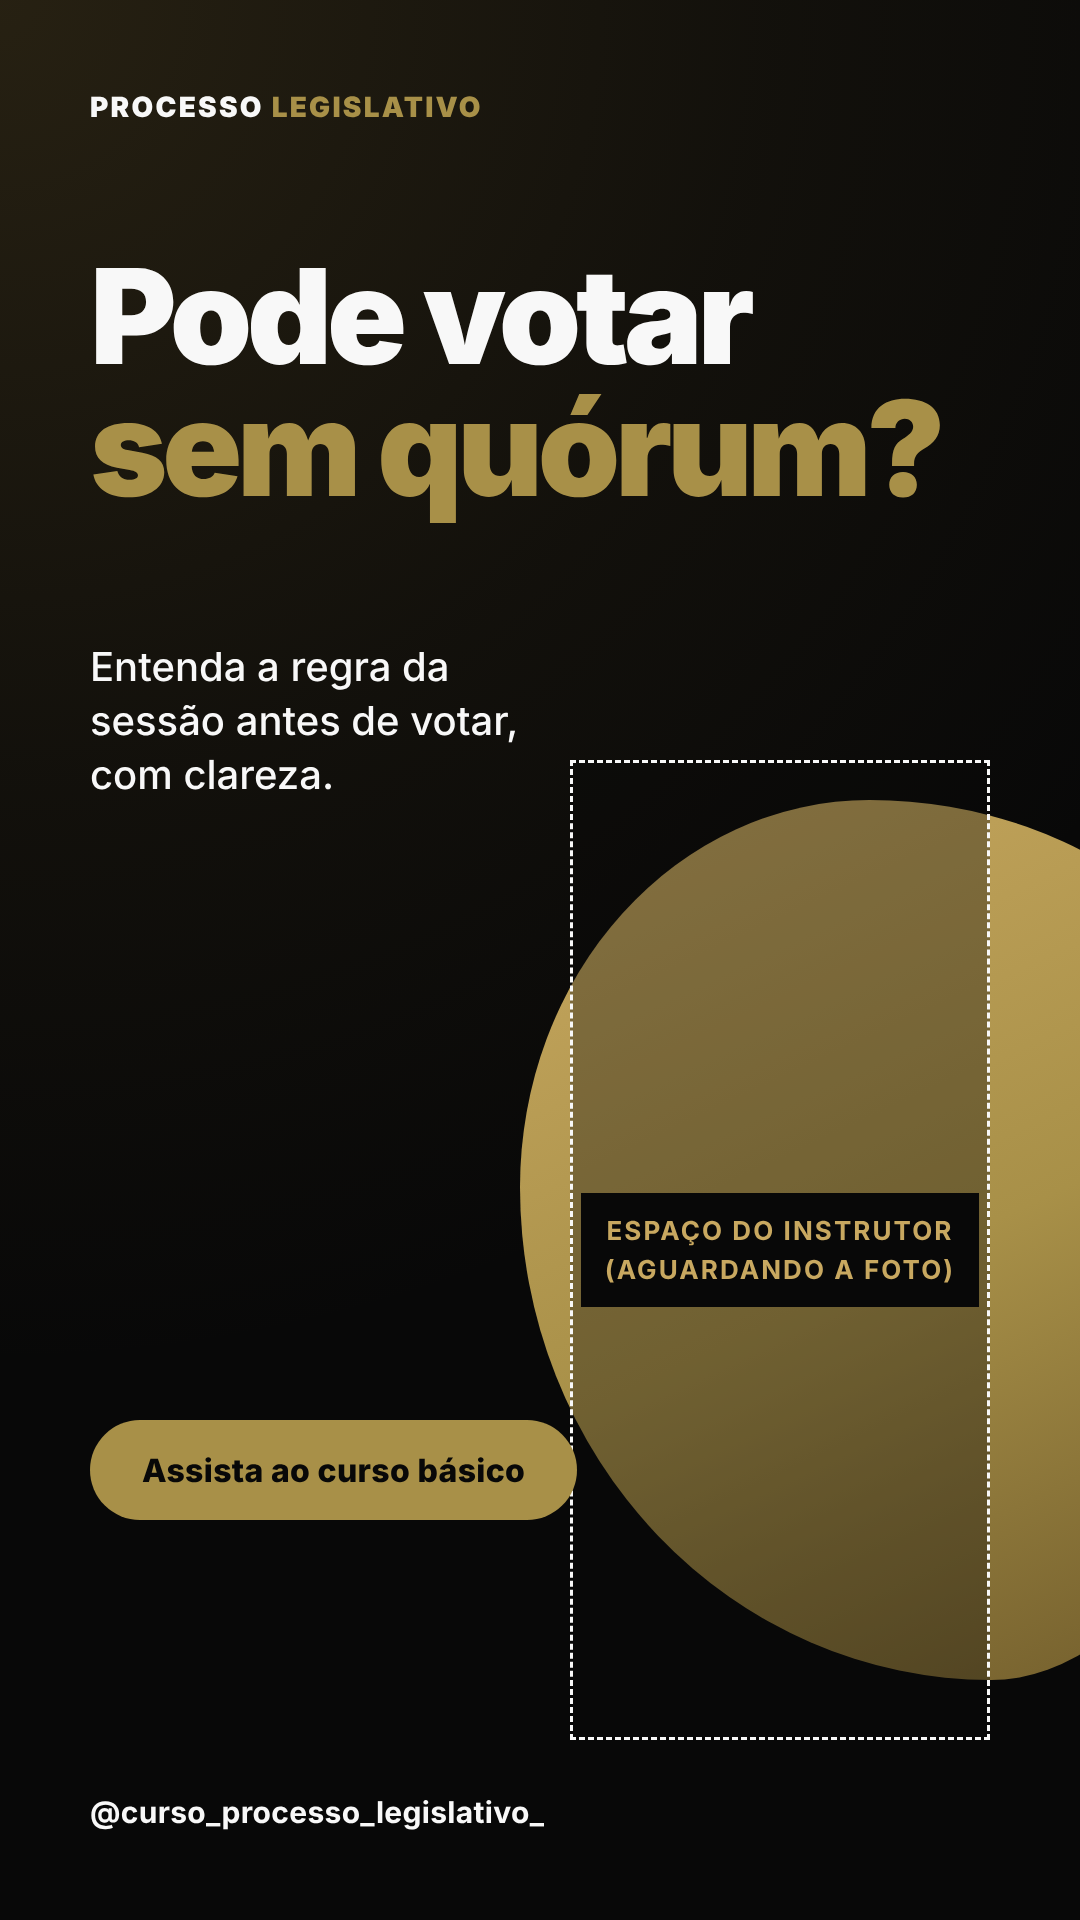
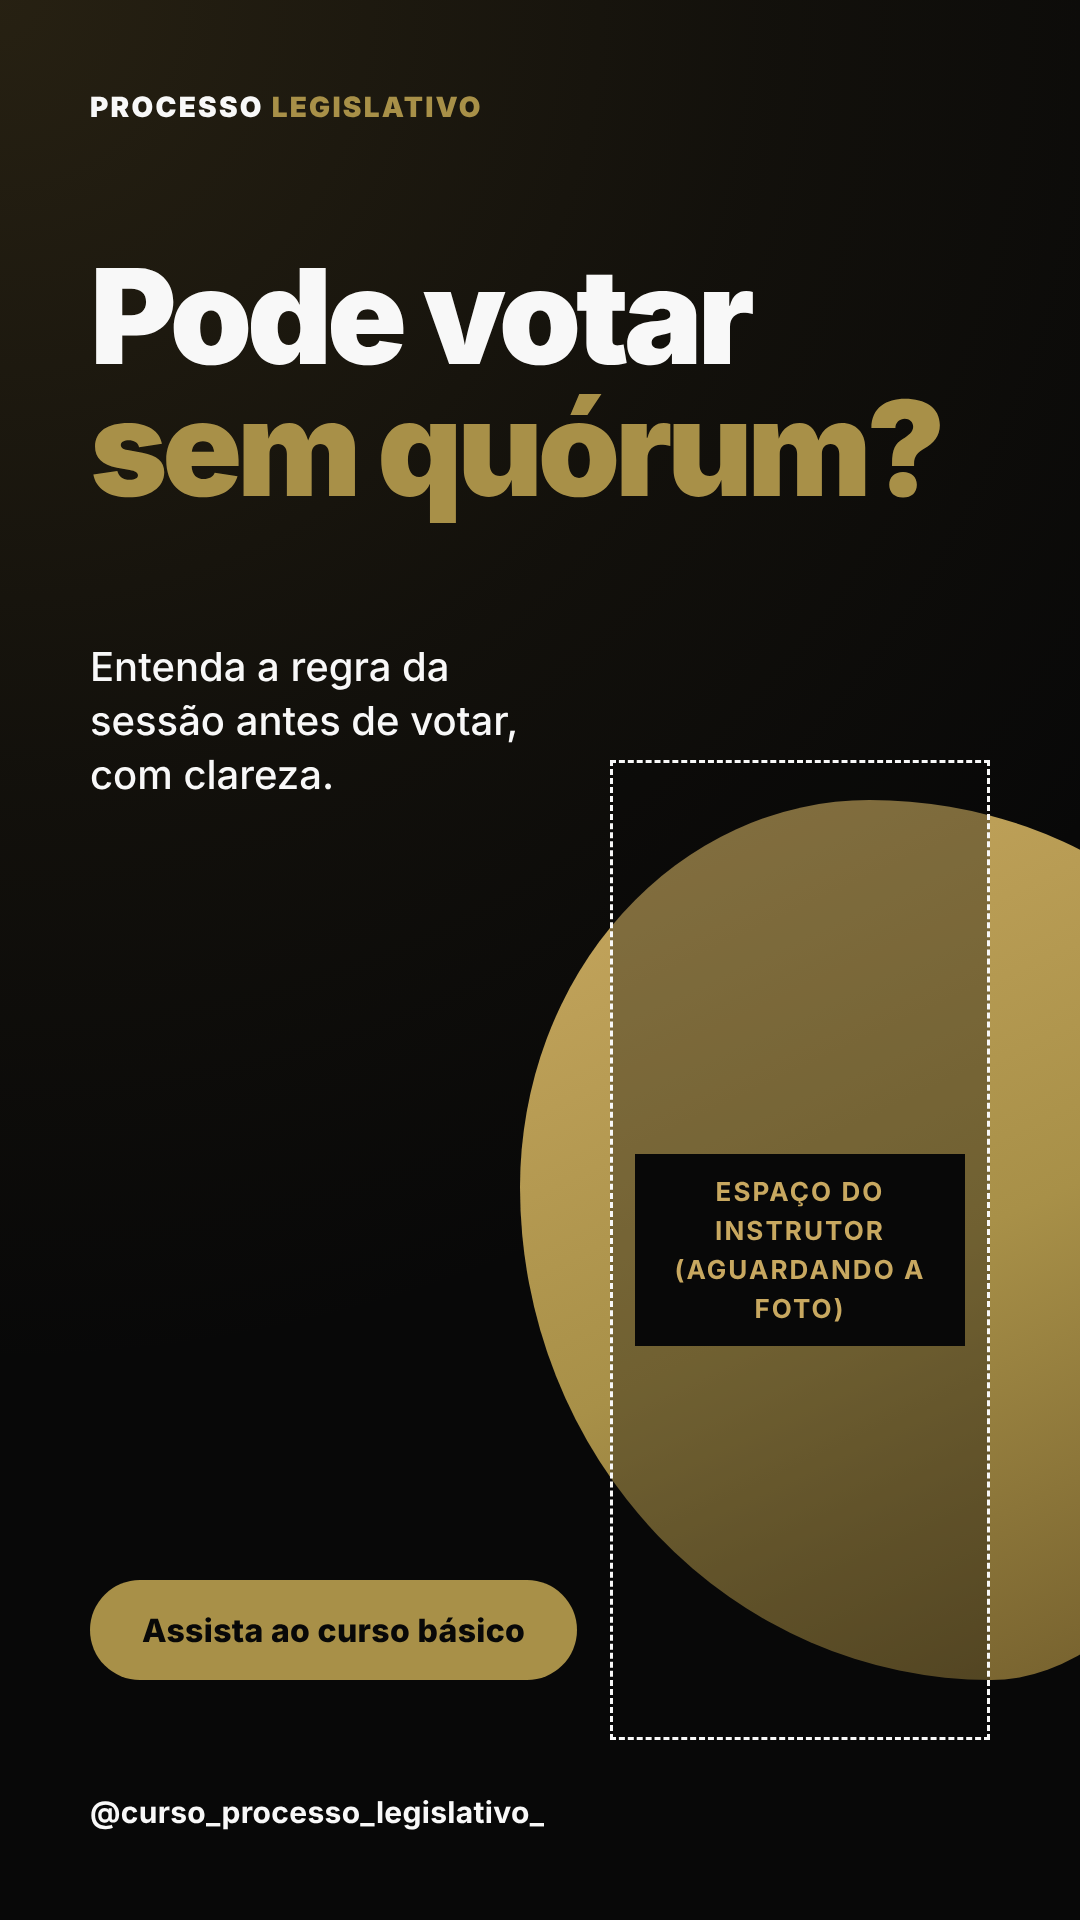
Curso de processo legislativo: variações de capa v11 finalizadas
Três variações (A, B, C) com a composição do template e as cores medidas. Espaço do
instrutor reservado; sem foto, logo ou texto de terceiros. Revisadas visualmente. Aguardando
aprovação do Lindson. Pesquisa premium desta rodada ainda pendente.

Claude-Session: https://claude.ai/code/session_01KiaatM9QFDA4eAkTbwp9BY

Changed region(s): [[0.0611, 0.4688, 0.9167, 0.875]]

diff --git a/agencia/clientes/curso-processo-legislativo/gerar-v11.js b/agencia/clientes/curso-processo-legislativo/gerar-v11.js
@@ -11,7 +11,7 @@ html,body{background:#080808}
 .corner{position:absolute;inset:0;background:radial-gradient(circle at 0% 0%,rgba(110,90,42,.30) 0%,rgba(110,90,42,.10) 35%,rgba(8,8,8,0) 62%)}
 .blob{position:absolute;background:linear-gradient(155deg,#C8A860 0%,#A89048 52%,#6E5A2A 100%)}
 .frame{position:absolute;border:3px dashed #F8F8F8;background:rgba(8,8,8,.35);display:flex;align-items:center;justify-content:center}
-.legend{background:#080808;color:#C8A860;font-weight:700;font-size:26px;letter-spacing:.08em;text-transform:uppercase;text-align:center;line-height:1.5;padding:18px 24px}
+.legend{width:max-content;max-width:88%;background:#080808;color:#C8A860;font-weight:700;font-size:26px;letter-spacing:.08em;text-transform:uppercase;text-align:center;line-height:1.5;padding:18px 24px}
 .logo{position:absolute;font-weight:900;font-size:28px;letter-spacing:.08em;color:#F8F8F8}
 .logo b{color:#A89048;font-weight:900}
 .t{position:absolute;font-weight:900;letter-spacing:-.04em;line-height:1.0;color:#F8F8F8}
@@ -29,8 +29,8 @@ const A = `
 <h1 class="t" style="left:90px;top:250px;font-size:132px">Pode votar<br><span class="g">sem quórum?</span></h1>
 <p class="body" style="left:90px;top:640px;width:430px;font-size:40px;line-height:1.35">Entenda a regra da sessão antes de votar, com clareza.</p>
 <div class="blob" style="right:-200px;top:800px;width:760px;height:880px;border-radius:46% 54% 38% 62% / 44% 40% 60% 56%"></div>
-${frame('right:90px;top:760px;width:420px;height:980px')}
-<div class="pill" style="left:90px;top:1420px">Assista ao curso básico</div>
+${frame('right:90px;top:760px;width:380px;height:980px')}
+<div class="pill" style="left:90px;top:1580px">Assista ao curso básico</div>
 <div class="handle" style="left:90px;bottom:90px">@curso_processo_legislativo_</div>`;
 
 // B: título centralizado no topo, mancha dourada ocupando a base, pílula no meio
@@ -52,9 +52,9 @@ const C = `
 <h1 class="t" style="left:90px;top:230px;font-size:124px;text-transform:uppercase">Pode votar</h1>
 <h1 class="t g" style="left:330px;top:400px;font-size:124px;text-transform:uppercase">Sem</h1>
 <h1 class="t g" style="left:90px;top:570px;font-size:124px;text-transform:uppercase">Quórum?</h1>
-<div class="blob" style="left:250px;top:880px;width:1000px;height:560px;transform:rotate(-26deg);border-radius:50% 50% 46% 54% / 60% 40% 60% 40%"></div>
-${frame('right:90px;top:960px;width:400px;height:640px')}
-<p class="body" style="left:90px;top:800px;width:470px;font-size:40px;line-height:1.35">Entenda a regra da sessão antes de votar, com clareza.</p>
+<div class="blob" style="left:300px;top:1010px;width:940px;height:500px;transform:rotate(-22deg);border-radius:50% 50% 46% 54% / 60% 40% 60% 40%"></div>
+${frame('right:90px;top:1000px;width:400px;height:600px')}
+<p class="body" style="left:90px;top:730px;width:520px;font-size:40px;line-height:1.35">Entenda a regra da sessão antes de votar, com clareza.</p>
 <div class="pill" style="left:90px;top:1600px">Assista ao curso básico</div>`;
 
 const pages = [
